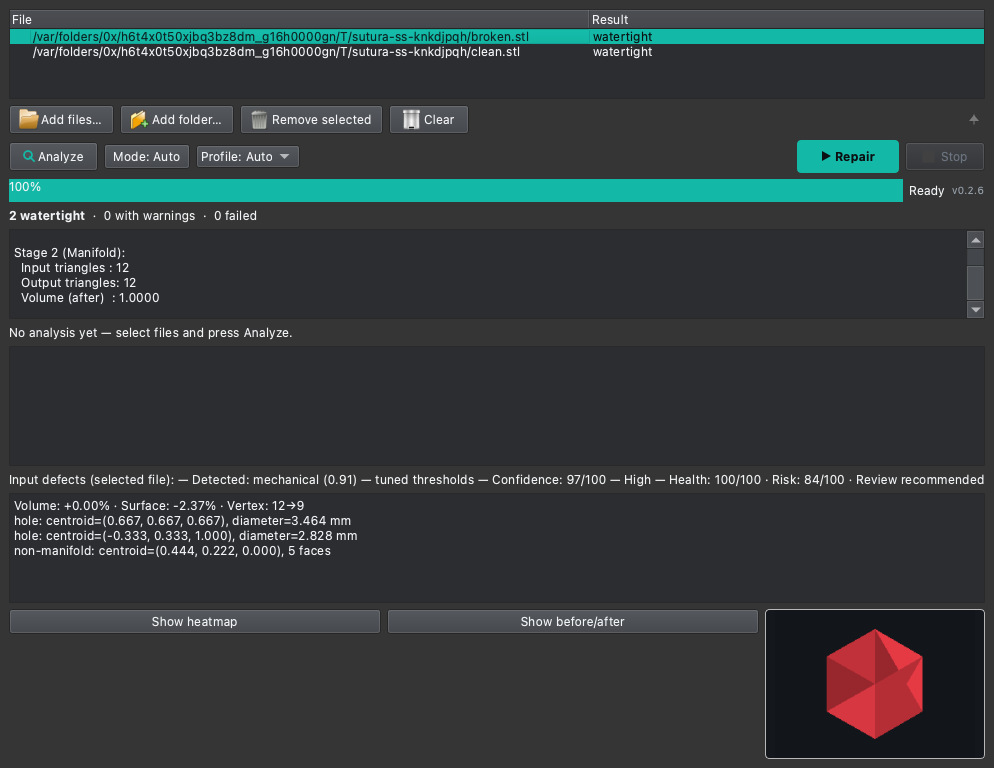
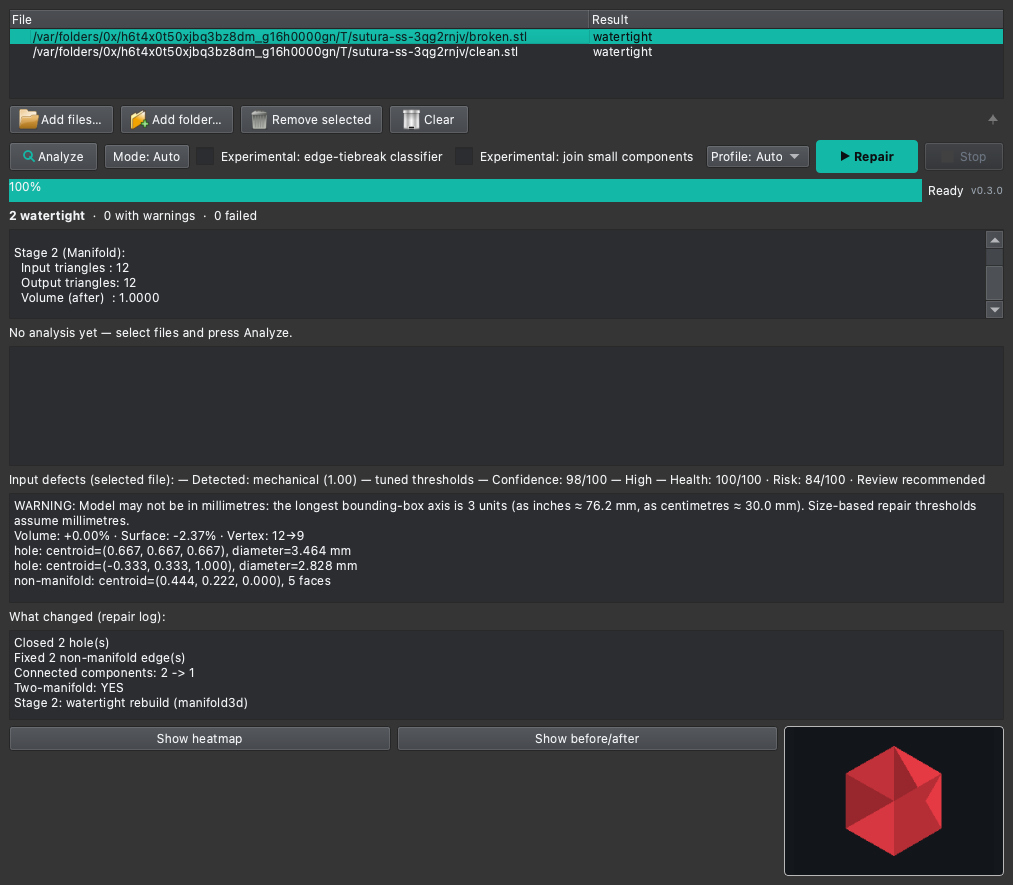
Release v0.3.0: finalize changelog, README audit + version history, screenshots, version bump
v0.3.0 release preparation (FAZ15):
- sutura/repair.py VERSION 0.2.8 -> 0.3.0 (only version string; the CHANGELOG
  historical 0.2.8 entry is left as history).
- CHANGELOG [Unreleased] finalized as [0.3.0] - 2026-09-20: Added/Changed/
  Fixed/Security entries for all FAZ1-14 user-visible changes (developable
  signal + 40-mesh corpus, strict-watertight benchmark + corpus release asset
  + manifold3d cross-validation, GUI color-coded defects + repair log,
  opt-in edge-tiebreak/join-components, defect_injector, 3MF zip-bomb guard,
  metal-nut fallback fix, flipped-detector fix, PBS checksums). Negative
  feature experiments are referenced to docs, not listed as features.
- README.md/tr.md: 'What you can rely on' intro emphasis (103/115 strict
  watertight, 115/115 manifold3d agreement, 71-mesh calibrated classifier);
  new 'Version history'/'Surum gecmisi' section (feature-adding versions only,
  backfilled v0.1.3..v0.3.0 from the CHANGELOG); Feature Status table audited
  against all FAZ1-14 changes.
- AGENTS.md release checklist: new step 5 standing rule - a feature-adding
  version must update the README version-history section (EN+TR); fix-only
  versions skip it.
- assets/*.png regenerated offscreen with the current GUI (FAZ11 defect-color
  view / repair log + FAZ14 join-components checkbox); defect-panel now shows
  the new panels.

Tests: 23 suites + layered check all green.

diff --git a/sutura/repair.py b/sutura/repair.py
@@ -115,7 +115,7 @@ def _resolve_bridge():
 
 BRIDGE = _resolve_bridge()
 
-VERSION = "0.2.8"
+VERSION = "0.3.0"
 
 
 class ExtremeRemovedAllError(ValueError):

diff --git a/CHANGELOG.md b/CHANGELOG.md
@@ -2,7 +2,7 @@
 
 All notable changes to this project are documented here.
 
-## [Unreleased]
+## [0.3.0] - 2026-09-20
 
 ### Added
 
@@ -13,49 +13,75 @@ All notable changes to this project are documented here.
   pipe, fillet or other ruled curved part). The plane-only RANSAC could not
   see cylinders/fillets/pipes; this signal is what lets the head classify
   curved-but-mechanical parts that classic reads as `unknown`. The synthetic
-  calibration set grew from 28 to 35 meshes (`cylinder_*`, `tube_*`,
-  `fillet_bracket` + damaged variants).
+  calibration set grew from 28 to 35 meshes.
 - **Real-world classifier corpus grown 16 → 40 meshes.** `tests/real-world-samples/`
-  gained 24 Thingi10K meshes (CC0/CC-BY, see `docs/ATTRIBUTION.md` and
-  `tests/real-world-samples/ATTRIBUTION.md` for per-file attribution) with a
-  deliberately hard curved/free-form mix, and the v2 head was retrained on it.
-  Measured on the labeled set: experimental 29/36 vs classic 16/36 (mechanical
-  recall 16/20 vs 2/20); LOO-CV on the 71-mesh labeled set (35 synthetic + 36
-  real) 0.845 vs classic 0.648. Repo size grew to ~97 MB (corpus STLs) — see
-  `docs/v0.3.0-readiness.md`.
-- **115-mesh strict-watertight repair benchmark + harness.** New reproducible
-  harness `scripts/benchmark_repair_corpus.py` runs the current pipeline over
-  the 115-mesh real-world scan corpus and measures the **final output
-  geometry** with a strict `defects.detect()` closed-loop check (`holes == 0
-  AND non_manifold == 0`), recording the pipeline verdict alongside so any
-  claim-vs-check discrepancy is visible. Result on the current pipeline:
-  103/115 (~90%) strictly watertight, 0 crashes, every pipeline claim
-  confirmed 1:1. Report: `docs/repair-benchmark-strict-watertight-2026-09.md`
-  (methodology, metric clarification — pymeshlab `boundary_edges` counts
-  edges, not holes — and per-mesh failure reasons).
-- **Experimental join-closest-components prototype (`--experimental-join-components`).**
-  CLI-only, evaluation only, NOT in the default chain: instead of deleting
-  connected components below `mincomponentsize`, `repair.join_small_components`
-  moves each small component onto the nearest larger one (translate so the
-  closest vertex pair coincides, then merge duplicates and re-close). A
-  deliberate geometry change (debris is moved, not dropped), so it stays
-  behind the flag; the report carries `experimental_join_components`
-  (`{moved, remaining_small}`). Not tested in CI.
+  gained 24 Thingi10K meshes (CC0/CC-BY; per-file attribution in
+  `docs/ATTRIBUTION.md`), and the v2 head was retrained on it. On the labeled
+  set experimental scores 29/36 vs classic 16/36 (mechanical recall 16/20 vs
+  2/20); LOO-CV on the 71-mesh labeled set 0.845 vs classic 0.648.
+- **115-mesh strict-watertight repair benchmark + harness.**
+  `scripts/benchmark_repair_corpus.py` measures the final output geometry
+  with a strict `defects.detect()` closed-loop check; result 103/115 (~90%)
+  strictly watertight, 0 crashes, every pipeline claim confirmed 1:1. Report:
+  `docs/repair-benchmark-strict-watertight-2026-09.md`.
+- **Repair benchmark corpus published as a release asset.** The ~6 GB 115-mesh
+  corpus is now downloadable via `scripts/fetch_benchmark_corpus.sh` (split
+  `.tar.gz` on the `benchmark-corpus-v1` GitHub release), so a fresh machine
+  can reproduce the benchmark without re-scraping Thingi10K.
+- **Optional manifold3d cross-validation layer.** The benchmark harness
+  independently re-checks each repaired mesh with manifold3d next to
+  `defects.detect()` (115/115 agreement on the corpus); the verdict is `n/a`
+  when manifold3d is unavailable. `tests/test_manifold3d_watertight.py`.
+- **GUI repair preview/UX.** A color-coded defect view (red = non-manifold,
+  orange = flipped winding, yellow = degenerate face) in the interactive
+  before/after viewer, and a "What changed" repair-log panel (holes closed,
+  non-manifold edges fixed, faces removed, components, stage 2).
+- **Opt-in experimental options.** `--experimental-edge-tiebreak` (11-feature
+  classifier head — base features + the five strongest scan signals) and
+  `--experimental-join-components` (moves small components onto the nearest
+  larger one instead of deleting them) are available from the CLI and the GUI
+  (batch-wide checkboxes). Both are opt-in; the default behaviour is
+  unchanged.
+- **Synthetic defect injection tool.** `scripts/defect_injector.py` corrupts a
+  mesh with selectable defect types (`--hole`, `--non-manifold`,
+  `--self-intersect`, `--flipped-normal`, `--degenerate`) and writes a broken
+  copy; validated by `tests/test_defect_injector.py`.
+
+### Changed
+
+- The v2 (experimental) classifier is the default engine, and the per-type
+  Stage 1 tuning now uses a **near-boundary classic-agreement confidence
+  fallback**: a coin-flip head decision with a strong agreeing classic
+  inherits classic's confidence so the tuning gate is not silently disabled.
 
 ### Fixed
 
-- **`artec_metal-nut.stl` scan-corpus regression (103 → 102 → 103).** The FAZ 2
-  retrained classifier head collapsed this organic scan's confidence from
-  0.987 to 0.022 (`p_mech=0.489`, a coin-flip), which put it below `ORG_TUNE_GATE`
-  and silently disabled organic tuning — leaving the mesh open. New
-  near-boundary classic-agreement fallback in `mesh_classifier_v2.py`: when
-  the head is a coin-flip (`|p_mech − 0.5|·2 < 0.15`) and classic strongly
-  agrees with the barely-chosen class (class-score ≥ 0.70), the head keeps its
-  class but reports classic's confidence, so the tuning gate sees the strong
-  signal. Confident head decisions are never overridden (no classic veto).
-  Re-measured on the 115-mesh corpus: 103/115 strictly watertight, warning set
-  identical to the pre-regression run, zero new regressions; the fallback
-  fires on exactly one mesh.
+- **`artec_metal-nut.stl` scan-corpus regression (103 → 102 → 103).** The
+  retrained head collapsed this organic scan's confidence to 0.022 (a
+  coin-flip below `ORG_TUNE_GATE`), disabling organic tuning; the fallback
+  restored it to watertight (103/115, zero new regressions).
+- **`defect_type_colors` false positives on clean meshes.** Perpendicular
+  neighbours (e.g. a cube) were wrongly flagged as flipped; the test is now a
+  normalized cosine against self-consistent neighbours, so a consistently
+  wound closed mesh has zero coloured faces.
+
+### Security
+
+- **3MF zip-bomb guard.** Every 3MF archive entry is read through a bounded
+  helper that checks the zip header's declared uncompressed size (cap: 1 GiB)
+  before reading, so a crafted archive fails with a controlled error instead
+  of exhausting memory.
+- **python-build-standalone downloads now SHA-256-verified** in
+  `scripts/build_appimage.sh`. See `docs/security-audit-2026-09.md` for the
+  full scan and the remaining low recommendations.
+
+### Experimental evaluations (documented, NOT integrated)
+
+Feature experiments that measured negatively are documented in the README
+"Classifier methodology" section and the corresponding docs — Weinmann et al.
+(2015) eigenvalue descriptors, local roughness/geometrical/statistical
+tie-breakers, and MeshCNN edge features — the default classifier is unchanged
+by them.
 
 ## [0.2.8] - 2026-09-19
 

diff --git a/README.tr.md b/README.tr.md
@@ -27,7 +27,17 @@ dokunulmadan onarılmış bir kopya üretilsin.
 
 Sutura, gerçek dünya girdilerine karşı sürekli sağlamlaştırılır — Thingi10K
 modelleri, bozuk dosyalar, düşmanca girdiler ve işkence senaryoları (devasa
-mesh'ler, ince duvarlar, çok parçalı montajlar) — ve her değişiklik, her push
+mesh'ler, ince duvarlar, çok parçalı montajlar) — ve her
+
+**Güvenebileceğiniz kısım.** İki aşamalı STL onarım hattı (VCG + manifold3d),
+sıkı bir `defects.detect()` kapalı-döngü kontrolüyle 115 mesh'lik gerçek dünya
+tarama corpus'unda doğrulanmıştır: 103/115 (~%90) gerçekten su geçirmez, 0
+çökme, her hat iddiası birebir doğrulandı ve bağımsız manifold3d kontrolü 115
+mesh'in tamamında uyumlu. Kusur tespiti, tek doğruluk kaynağı (stdlib+numpy),
+temiz ve bozuk mesh'lerde birim testlerle doğrulanır. Mesh-tipi sınıflandırıcı
+(varsayılan motor) 71 mesh'lik etiketli sette kalibre edilmiştir ve classic
+sezgiseli ölçülebilir biçimde geçer. Önce bunlara güvenin; deneysel/opt-in
+öğeler aşağıda açıkça işaretlidir. değişiklik, her push
 ve pull request'te CI tarafından otomatik doğrulanır.
 
 **Bir not (maintainer'dan)**
@@ -1135,3 +1145,40 @@ kurumu değilim. Bu yüzden ticari kullanım isteyenlerin benimle
 iletişime geçmesi gerekecek. İleride bir noktada projeye zaman
 ayıramaz hale gelirsem, Sutura'yı tamamen açık kaynağa çevirip
 topluluğa bırakmayı düşünüyorum — ama şimdilik böyle devam.
+
+## Sürüm geçmişi
+
+Yalnızca kullanıcıya yönelik özellik ekleyen sürümler listelenir (yalnızca
+düzeltme içeren sürümler atlanır). Ayrıntılı bilgi [CHANGELOG.md](CHANGELOG.md).
+
+- **v0.3.0 — 2026-09-20** — kavisli-mekanik sınıflandırıcı sinyali
+  (`developable_fraction`) + 40 mesh'lik gerçek dünya corpus'u; 115 mesh'lik
+  strict-watertight benchmark + corpus release asset'i + manifold3d
+  çapraz-doğrulama; GUI renk-kodlu kusur görünümü + "ne değişti" onarım
+  günlüğü; opt-in edge-tiebreak sınıflandırıcı kafası ve join-components
+  seçenekleri (CLI + GUI kutuları); sentetik defekt enjeksiyon aracı; 3MF
+  zip-bomb koruması.
+- **v0.2.7 — 2026-09-19** — birim-uyuşmazlığı tespiti; onarım bütçeleri; çok
+  nesneli 3MF için nesne başına Aşama 2.
+- **v0.2.6 — 2026-09-19** — Onarım Sağlık/Risk skorlaması; macOS Finder Quick
+  Action.
+- **v0.2.5 — 2026-09-19** — onarım profilleri (`--profile` / GUI açılır
+  listesi); macOS yerel başlatma (Spotlight); gerçek dünya kalibrasyon corpus'u.
+- **v0.2.3 — 2026-09-19** — bağımsız macOS `.app` için bundle-aware yol
+  çözümü; imzasız macOS `.dmg` paketleme.
+- **v0.2.1 — 2026-08-30** — anonim kullanım geçmişi (opt-out); graphify bilgi
+  grafiği entegrasyonu; katkı bölümü.
+- **v0.2.0 — 2026-08-26** — interaktif 3D görüntüleyici (döndürme/yakınlaştırma
+  + yüzey sapması); `.obj` desteği; otomatik güncelleme lisans sınırı; sponsor
+  bölümü.
+- **v0.1.9 — 2026-08-25** — Onarım Güven Skoru; GUI Analyze düğmesi + analiz
+  bölmesi; mod önerileri.
+- **v0.1.8 — 2026-08-24** — `validate` alt komutu; `--dry-run`; en-kötü-kusur
+  yakınlaştırmalı öncesi/sonrası karşılaştırma.
+- **v0.1.7 — 2026-08-22** — onarım modları (`--mode` + GUI seçici); extreme ek
+  geçişler; öncesi/sonrası mesh karşılaştırması (GUI).
+- **v0.1.6 — 2026-08-20** — raporlarda öncesi/sonrası geometri farkı; `--diff`.
+- **v0.1.4 — 2026-08-19** — batch onarım özeti; kusur tespiti
+  (`sutura/defects.py`); mesh-tipi farkında onarım; Türkçe README.
+- **v0.1.3 — 2026-08-19** — opt-in güncelleme denetçisi; yedek ve geri
+  dönüşlü kendi-kendine güncelleme.

diff --git a/README.md b/README.md
@@ -29,6 +29,16 @@ malformed files, adversarial inputs and torture scenarios (huge meshes, thin
 walls, multi-part assemblies) — and every change is verified automatically by
 CI on each push and pull request.
 
+**What you can rely on.** The two-stage STL repair pipeline (VCG + manifold3d)
+is validated on a 115-mesh real-world scan corpus with a strict
+`defects.detect()` closed-loop check: 103/115 (~90%) genuinely watertight, 0
+crashes, every pipeline claim confirmed 1:1, and an independent manifold3d
+re-check agrees on all 115 meshes. Defect detection is a single
+stdlib+numpy source of truth, unit-tested on clean and broken meshes. The
+mesh-type classifier (default engine) is calibrated on a 71-mesh labeled set
+and measurably beats the classic heuristic. These are the features to trust
+first; the experimental/opt-in items are clearly labelled as such below.
+
 **A note from the maintainer**
 
 I develop Sutura on my own, alongside my day job as an aircraft
@@ -1134,6 +1144,41 @@ is a permanent commitment. For commercial use, please contact me.
 
 Versions released between v0.1.0 and v0.1.9 remain permanently licensed under
 [Apache 2.0](https://github.com/Krateian/Sutura/blob/v0.1.9/LICENSE).
+
+## Version history
+
+Only versions that added user-facing features are listed (bug-fix-only
+versions are skipped). Full detail in [CHANGELOG.md](CHANGELOG.md).
+
+- **v0.3.0 — 2026-09-20** — curved-but-mechanical classifier signal
+  (`developable_fraction`) + 40-mesh real-world corpus; 115-mesh
+  strict-watertight benchmark + corpus release asset + manifold3d
+  cross-validation; GUI color-coded defect view + "what changed" repair log;
+  opt-in edge-tiebreak classifier head and join-components options (CLI + GUI
+  checkboxes); synthetic defect injection tool; 3MF zip-bomb guard.
+- **v0.2.7 — 2026-09-19** — unit-mismatch detection; repair budgets; per-object
+  Stage 2 for multi-object 3MF.
+- **v0.2.6 — 2026-09-19** — Repair Health/Risk scoring; macOS Finder Quick
+  Action.
+- **v0.2.5 — 2026-09-19** — repair profiles (`--profile` / GUI dropdown);
+  macOS native launch (Spotlight); real-world calibration corpus.
+- **v0.2.3 — 2026-09-19** — bundle-aware path resolution for a standalone
+  macOS `.app`; unsigned macOS `.dmg` packaging.
+- **v0.2.1 — 2026-08-30** — anonymous usage history (opt-out); graphify
+  knowledge-graph integration; contributing section.
+- **v0.2.0 — 2026-08-26** — interactive 3D viewer (rotate/zoom + surface
+  deviation); `.obj` support; auto-update license boundary; sponsor section.
+- **v0.1.9 — 2026-08-25** — Repair Confidence Score; GUI Analyze button +
+  analysis pane; mode suggestions.
+- **v0.1.8 — 2026-08-24** — `validate` subcommand; `--dry-run`; before/after
+  comparison with worst-defect zoom.
+- **v0.1.7 — 2026-08-22** — repair modes (`--mode` + GUI picker); extreme
+  extra passes; before/after mesh comparison (GUI).
+- **v0.1.6 — 2026-08-20** — before/after geometry diff in reports; `--diff`.
+- **v0.1.4 — 2026-08-19** — batch repair summary; defect detection
+  (`sutura/defects.py`); mesh type-aware repair; Turkish README.
+- **v0.1.3 — 2026-08-19** — opt-in update checker; self-update with backup
+  and rollback.
 
 The reason for this change: Sutura was not born as a business plan or a
 startup — it came from my own need, and I pay the cost of the AI tools I use

diff --git a/AGENTS.md b/AGENTS.md
@@ -133,15 +133,20 @@ the following in order, without being asked separately for each:
 2. Update CHANGELOG.md with a real entry for this version.
 3. Commit the version bump with a summary body.
 4. Tag the release (vX.Y.Z).
-5. Feature Status table audit (README.md/tr.md) against the actual commits
+5. **Version-history standing rule (FAZ15):** if this version ADDS a
+   user-facing feature/capability, add a short entry to the "Version history"
+   ("Sürüm geçmişi") section in README.md AND README.tr.md (one line, what
+   came in, based on the CHANGELOG Added/Changed user-visible items). Fix-only
+   versions do NOT touch that section.
+6. Feature Status table audit (README.md/tr.md) against the actual commits
    since the previous tag — bump percentages only when the honest state
    changed; check the test-suite list in the 'Test coverage' row is current.
-6. Re-run scripts/generate_screenshots.py if the GUI's visible state changed
+7. Re-run scripts/generate_screenshots.py if the GUI's visible state changed
    since assets/ was last generated (check via git log --follow).
-7. Push (main + tag) via the HTTPS token method.
-8. Create the GitHub Release with a real written summary (not just a
+8. Push (main + tag) via the HTTPS token method.
+9. Create the GitHub Release with a real written summary (not just a
    CHANGELOG link).
-9. Verify the release notes actually landed as written: after
+10. Verify the release notes actually landed as written: after
    `gh release create` / `gh release edit`, run
    `gh release view <tag> --json body` and read the ACTUAL body back.
    Confirm it contains the real highlights list for this version — not a
